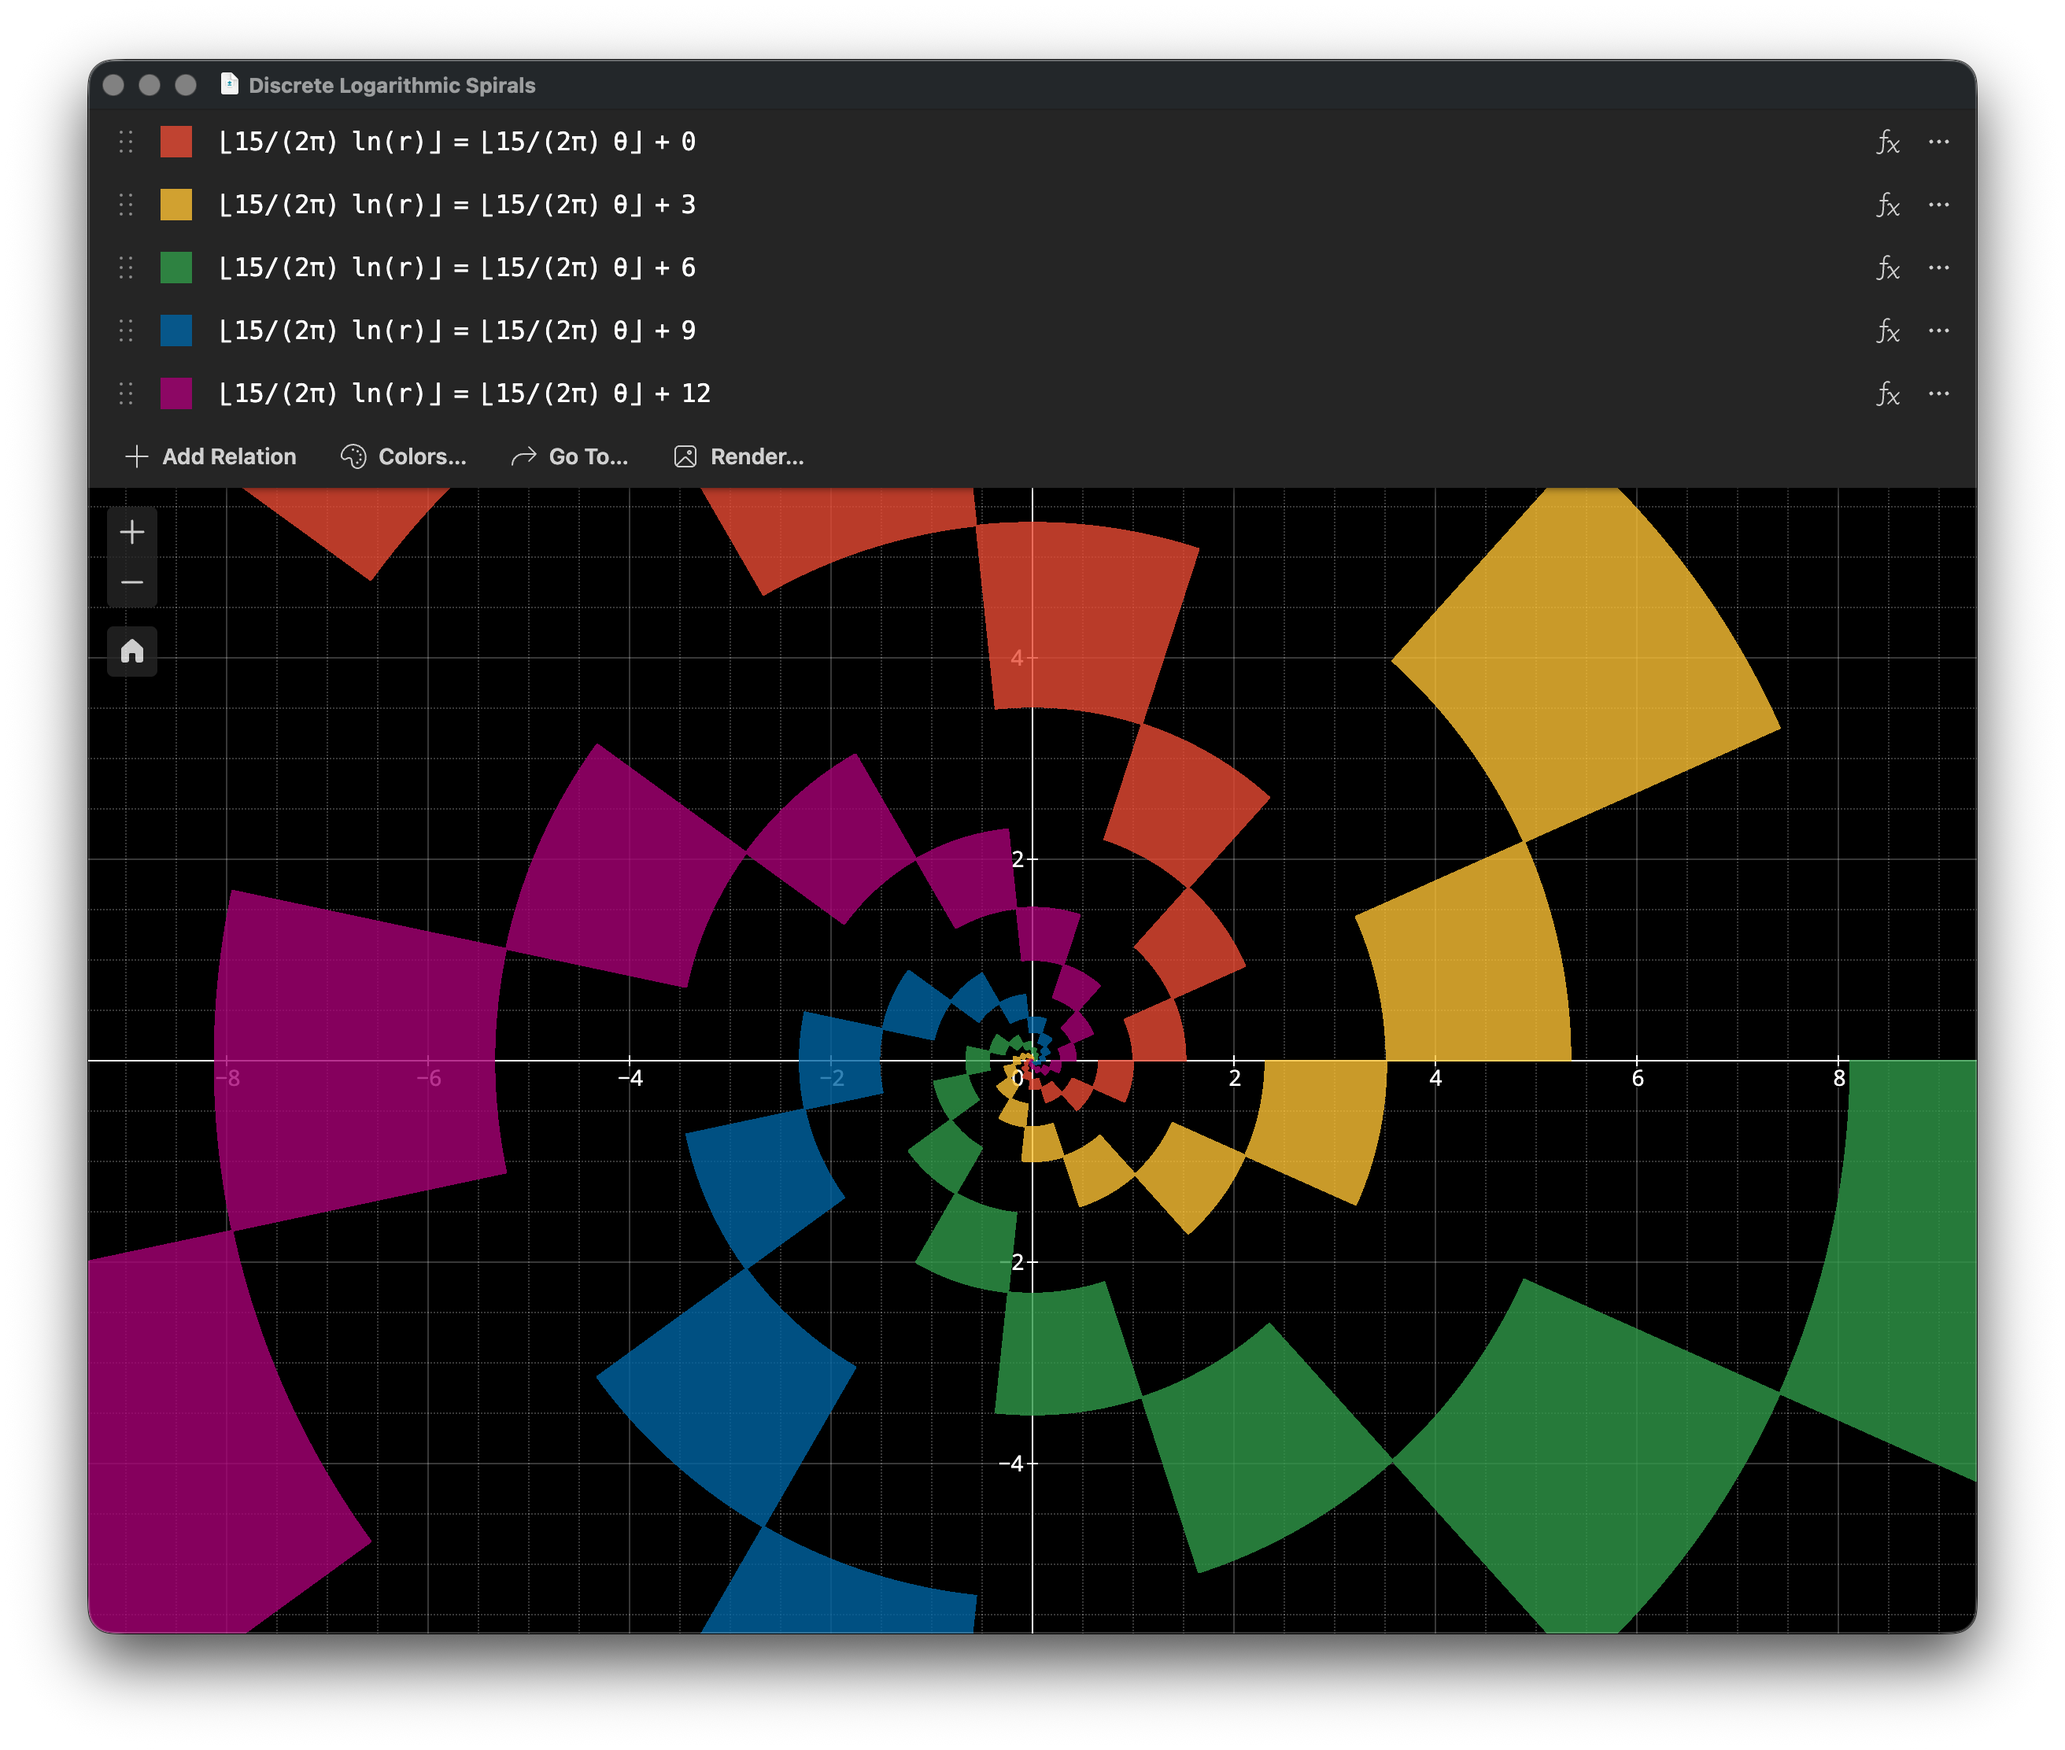
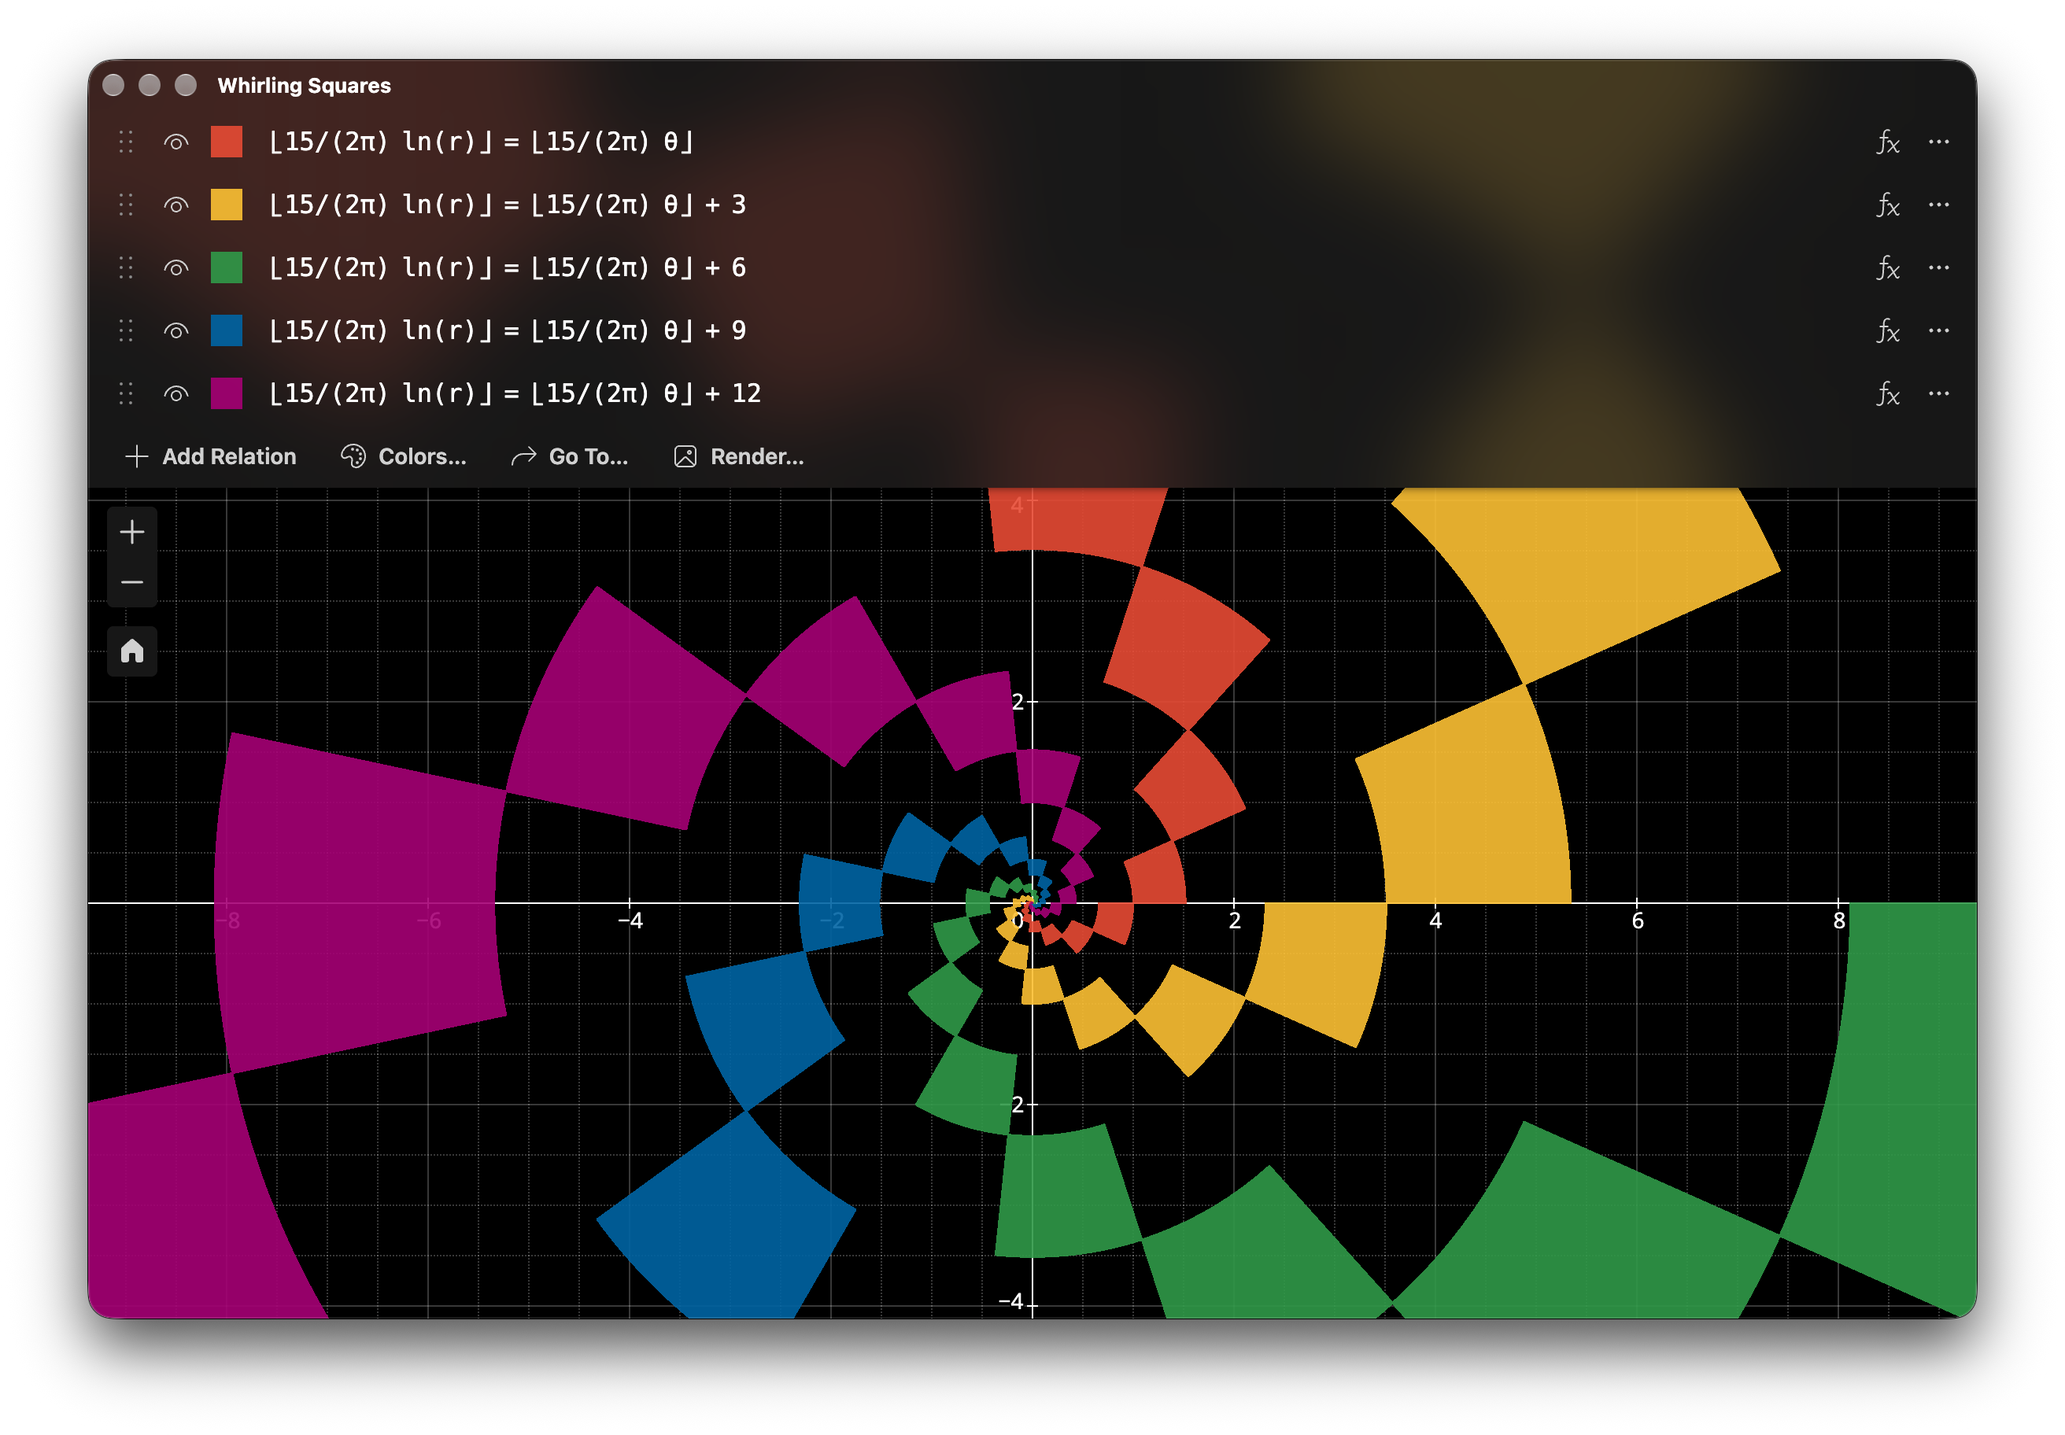
Update cover image

diff --git a/README.md b/README.md
@@ -3,8 +3,8 @@
 <p align="center">A graphing calculator that faithfully plots arbitrary mathematical relations.</p>
 
 <p align="center">
-  <img width="656" height="556" alt="cover image" src="docs/cover_light.png#gh-light-mode-only">
-  <img width="656" height="556" alt="cover image" src="docs/cover_dark.png#gh-dark-mode-only">
+  <img width="656" height="456" alt="cover image" src="docs/cover_light.png#gh-light-mode-only">
+  <img width="656" height="456" alt="cover image" src="docs/cover_dark.png#gh-dark-mode-only">
 </p>
 
 ## Getting Started
@@ -27,7 +27,7 @@
 
 Graphest aims to provide a modern, open-source and extensible alternative to [GrafEq™](http://www.peda.com/grafeq/) [Ped].
 
-The following algorithms in [Tup01] are implemented: 1.1–3.2, 3.3 (partially), 3.4.1–3.4.3, 3.4.5 (partially).
+The following algorithms in [Tup01] are implemented: 1.1–3.2, 3.3 (partially), 3.4.1–3.4.3, 3.4.5 (partially), 3.4.6 (partially).
 
 - [Ped] Pedagoguery Software Inc. GrafEq™. http://www.peda.com/grafeq
 - [Tup96] Jeffrey Allen Tupper. _Graphing Equations with Generalized Interval Arithmetic._ Master's thesis, University of Toronto, 1996. http://www.dgp.toronto.edu/~mooncake/thesis.pdf
